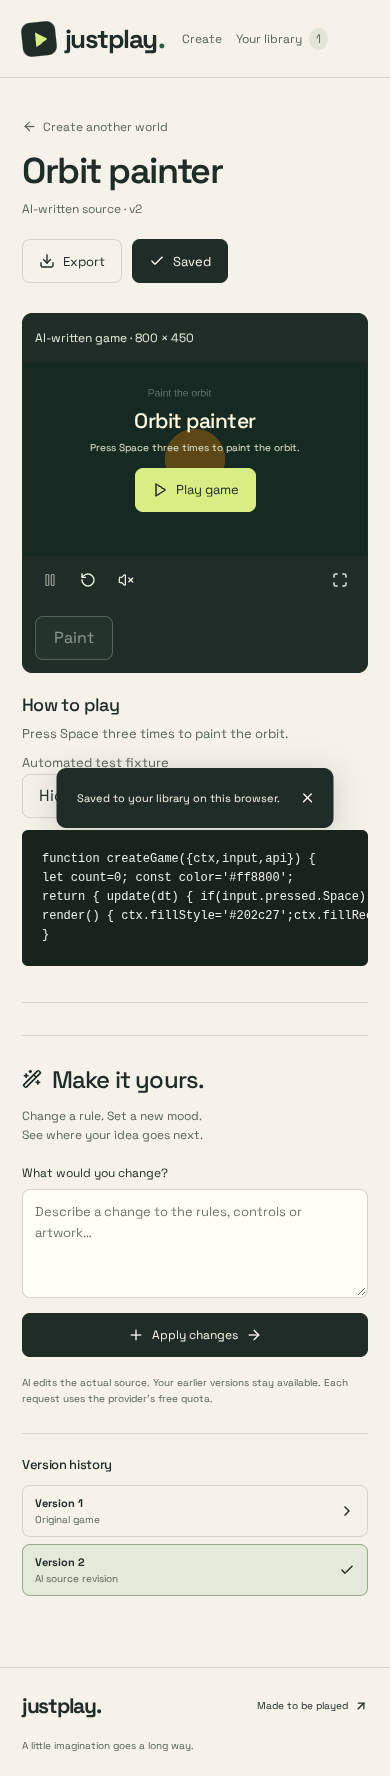
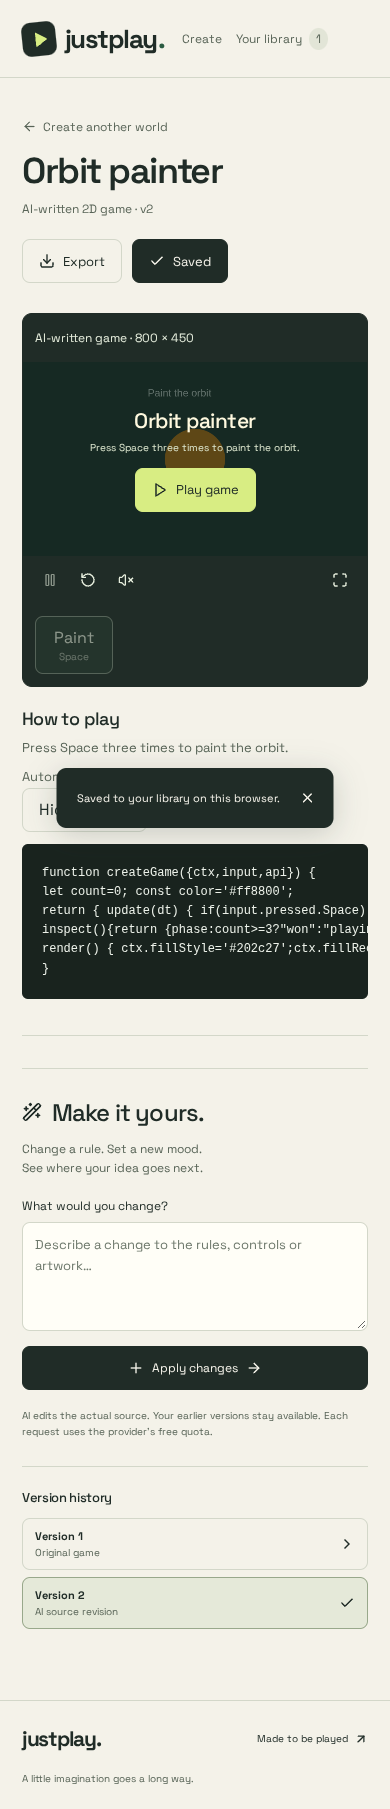
document 2d submission checks

diff --git a/docs/ARCHITECTURE.md b/docs/ARCHITECTURE.md
@@ -9,3 +9,11 @@ Canvas rendering uses transferred OffscreenCanvas, not parent DOM. Trusted code 
 Vercel discovers `api/generate.ts`, a native Node request/response adapter with explicit ESM imports. Cloudflare routes via `worker.ts` or its Pages function. Both use the same bounded server handler. Vercel supplies server-only environment variables and a bounded per-instance limiter. Instance counters are not a global quota.
 
 Old GameSpec saves still validate and open in the legacy Phaser renderer. Legacy runtime/fixture modules are compatibility code and tests only; new generation and new edits never select them. Editing an old save asks AI to generate a new source prototype from its original prompt. Exports include the selected source artifact; imports validate syntax and startup before opening.
+
+## 2D submission quality update
+
+New artifacts declare runtimeVersion=2, renderer=canvas2d, selected sprite assets and input verification scenarios. The trusted app loads the small compiled Worker engine and local SVG sprites; no network capability is granted to generated code. The AI still writes all game mechanics. Original sprite assets are reusable artwork, not game-family templates.
+
+Before studio entry, a disposable Worker verifies a nonblank render, numeric inspect() state, objective/HUD and each declared control. For each scenario it resets seeded randomness and compares the game with/without only that input. A control must alter real numeric state plus rendered output or HUD. Prerequisite keys can remain held in both runs. Failure goes to the existing single AI repair; failed repairs remain errors, never preset replacements. This catches many broken controls and static scenes but does not prove all goals reachable or every game fun. Legacy saved source remains playable; new edits upgrade to the verified contract.
+
+Mobile control presses no longer focus the iframe, preserving independent touch pointers for simultaneous movement/actions. Browser tests exercise actual two-finger drive-and-steer input. The user chose 2D for the submission deadline; 3D development was removed from this delivery.

diff --git a/docs/AI_PIPELINE.md b/docs/AI_PIPELINE.md
@@ -33,3 +33,7 @@ Clients request `Accept: application/x-ndjson`. After origin, configuration, quo
 The native Node adapter flushes headers and pipes the response body with backpressure rather than buffering response.text(). Client disconnect aborts the Google request. The browser reads bounded fragmented UTF-8 lines, ignores heartbeats, validates the final game and preserves server errors. Streaming begins before inference finishes, not as a fabricated percentage of completion.
 
 [Vercel duration](https://vercel.com/docs/functions/configuring-functions/duration) and [limits](https://vercel.com/docs/functions/limitations) were checked: Fluid Compute supports 300 seconds on Hobby. The deployment schema confirms `fluid: true` enables Fluid Compute. No paid plan or separate service is required. Streamed errors use HTTP 200 with an explicit terminal error event/status because headers have already been sent. Server logs record provider/model, attempt, duration, HTTP status and upstream request ID; no key, prompt, generated source or raw upstream error is logged.
+
+## Playability and art contract
+
+Creation/editing now requires runtimeVersion=2, canvas2d, actual native keyboard controls (pointer-only uses an empty array), asset declarations, inspect() numeric gameplay state and per-control verification scenarios. The provider receives the local sprite catalog and instructions for complete rules/objectives, dt-based motion, feedback and outcomes. It is never given a keyword-selected racing/cricket/basketball engine. Prompting alone cannot guarantee quality; browser input/render checks and one feedback-based source repair run before accepting the game. Google source budget is up to 7000 tokens (edits 4200), within existing request deadlines; Groq retains its smaller budget.

diff --git a/docs/TEST_RESULTS.md b/docs/TEST_RESULTS.md
@@ -1,3 +1,11 @@
+# 2D playability repair — 2026-10-31
+
+Submission scope is 2D, following the user's deadline. Added reusable original MIT sprites, direct native control hints, multitouch-safe controls, numeric gameplay inspection and per-control input checks with deterministic baseline comparisons. New games require these checks; one repair receives actual failure details.
+
+Local browser checks passed for real two-finger drive-and-steer, sprite rendering, no-op control rejection and the sandbox security/CSP/error cases. Native HTTP/browser generation/edit/history/save checks passed with mocked Google inference. Typecheck, lint, unit tests, production build and emitted Node HTTP smoke are checked before push. Live generation is recorded separately once the deployed code is verified; no guarantee of perfect games is made.
+
+---
+
 # Generation timeout regression — 2026-10-31
 
 Reproduced a live provider HTTP 500 in 0.7 seconds. This establishes a transient/upstream failure in addition to the code's premature 25-second cutoff; it does not establish the precise cause of the user's earlier timeout.

diff --git a/docs/ASSET_LICENSES.md b/docs/ASSET_LICENSES.md
@@ -13,3 +13,7 @@ Kenney Tiny Dungeon was considered (its page lists CC0), but download-link acces
 ## Sports assets
 
 `athlete.png` is original 16×16, four-frame pixel art generated by `scripts/make_assets.py`. `court.svg` and `stadium.svg` are original local 640×360 arena illustrations. `src/game/sports.ts` draws original ball textures, hoop/net/backboard, bat, wicket and aim/power aids through Phaser. All use the project MIT license; no external packs, paid image service, team branding or protected sports logos are used.
+
+## Submission sprite library
+
+`public/assets/library/{car,tree,coin,rock,player,ball}.svg` are original JustPlay vector sprites under the repository MIT license. They are preloaded as ImageBitmaps by the trusted app and transferred to the isolated player; model-generated code draws them with assets.image(id). They contain no game rules. No paid artwork, external model download, Kenney asset or 3D dependency ships in this 2D submission update.
